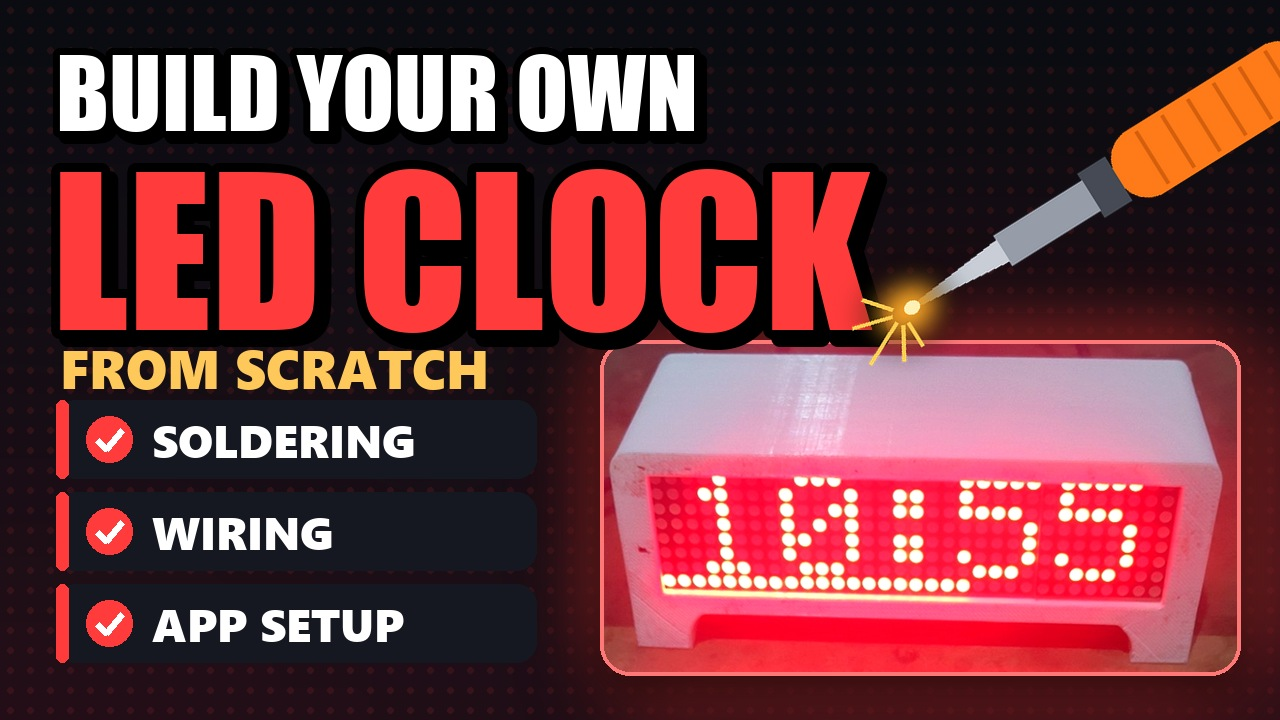
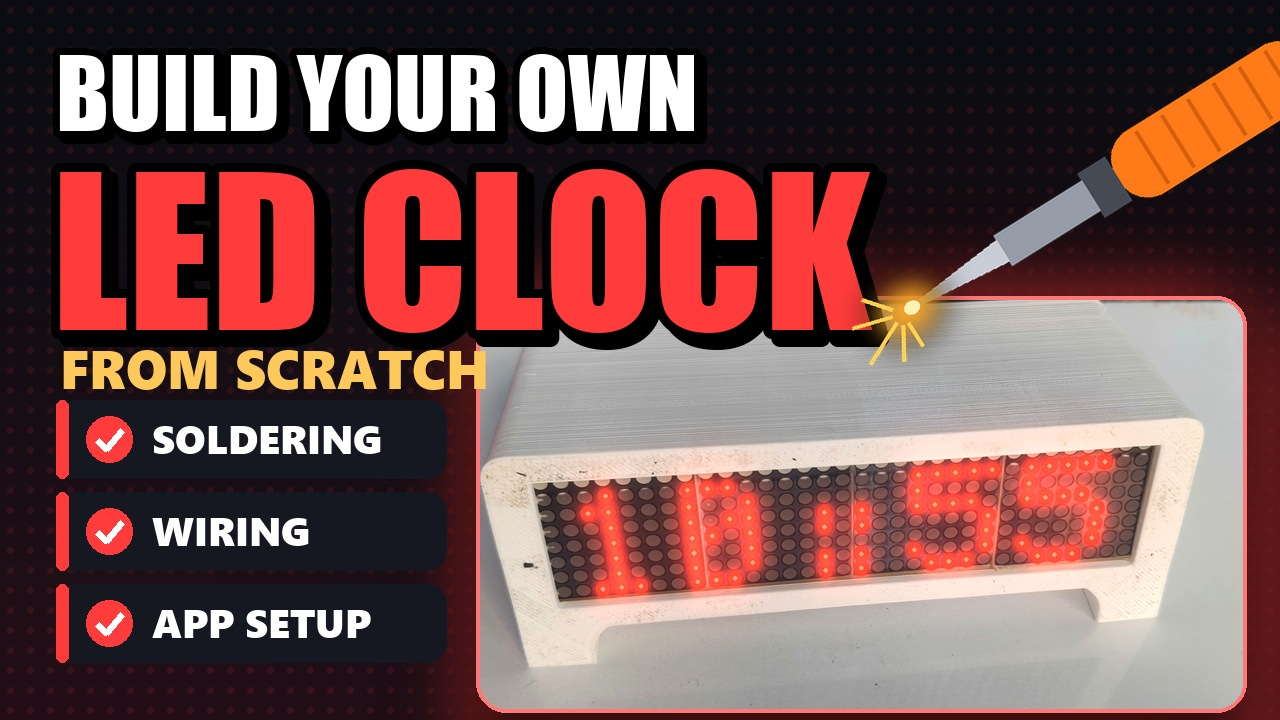
Thumbnails from daylight photos with glowing digits; light_up_clock_photo tool
Detects the LED lenses, fits each module's grid (0.2-0.6 px error) and draws
the lit digits on the photo. Daylight photos added under docs/youtube/photos.

diff --git a/tools/light_up_clock_photo.py b/tools/light_up_clock_photo.py
@@ -1,0 +1,161 @@
+"""Light up a photo of an unlit DotGlow clock: draws glowing red digits exactly on the LED dots of the photo.
+
+    python tools/light_up_clock_photo.py <photo.jpg> <out.jpg> --roi x0,y0,x1,y1 --seams x1,x2,x3 [--text 10:55]
+
+roi:    a box around the 4 display modules (a bit larger than the dots).
+seams:  x position of the 3 gaps between the 4 modules (pixels in the photo).
+The program finds the beige LED lenses, fits each 8x8 module's dot grid (perspective is handled per module),
+darkens the unlit lenses and draws the lit ones with a bloom. The top row of dots is usually half hidden by the
+case lip, so digits use rows 1-7. Needs: pip install opencv-python numpy.
+
+Example (docs/youtube/photos/clock-day-front.jpg):
+    python tools/light_up_clock_photo.py docs/youtube/photos/clock-day-front.jpg docs/youtube/photos/clock-day-lit.jpg \
+        --roi 462,362,1545,622 --seams 735,998,1245
+"""
+import argparse
+
+import cv2
+import numpy as np
+
+FONT = {  # 5x7, rows top to bottom, bit 4 = left column
+    '0': [14, 17, 19, 21, 25, 17, 14], '1': [4, 12, 4, 4, 4, 4, 14], '2': [14, 17, 1, 2, 4, 8, 31],
+    '3': [30, 1, 1, 14, 1, 1, 30], '4': [2, 6, 10, 18, 31, 2, 2], '5': [31, 16, 30, 1, 1, 17, 14],
+    '6': [6, 8, 16, 30, 17, 17, 14], '7': [31, 1, 2, 4, 8, 8, 8], '8': [14, 17, 17, 14, 17, 17, 14],
+    '9': [14, 17, 17, 15, 1, 2, 12]}
+
+
+def lit_pixels(text, top=1):
+    """Set of (col, row) lit on a 32x8 display: 4 digits (5x7) and the colon; rows start at `top`."""
+    lit = set()
+    for ch, x0 in zip([c for c in text if c.isdigit()], [1, 7, 19, 25]):
+        for r, bits in enumerate(FONT[ch]):
+            for c in range(5):
+                if bits >> (4 - c) & 1:
+                    lit.add((x0 + c, r + top))
+    for r in (2, 3, 5, 6):
+        lit.add((15, r + top))
+        lit.add((16, r + top))
+    return lit
+
+
+def detect_dots(img, roi, amin=160, amax=700):
+    """Centres of the fully visible beige LED lenses (local-contrast threshold: the frame is bright too)."""
+    x0, y0, x1, y1 = roi
+    g = cv2.GaussianBlur(cv2.cvtColor(img[y0:y1, x0:x1], cv2.COLOR_BGR2GRAY), (3, 3), 0)
+    m = cv2.adaptiveThreshold(g, 255, cv2.ADAPTIVE_THRESH_GAUSSIAN_C, cv2.THRESH_BINARY, 35, -18)
+    m = cv2.morphologyEx(m, cv2.MORPH_OPEN, np.ones((3, 3), np.uint8))
+    n, lab, st, ce = cv2.connectedComponentsWithStats(m)
+    pts = []
+    for i in range(1, n):
+        a, w, h = st[i, cv2.CC_STAT_AREA], st[i, cv2.CC_STAT_WIDTH], st[i, cv2.CC_STAT_HEIGHT]
+        if amin <= a <= amax and 0.7 < w / h < 1.5 and 12 <= w <= 34 and 12 <= h <= 34:
+            pts.append((ce[i][0] + x0, ce[i][1] + y0))
+    return np.array(pts)
+
+
+def blob_mask(img, roi, amin=60, amax=800):
+    """Mask of all beige lenses, including the half-hidden ones."""
+    x0, y0, x1, y1 = roi
+    g = cv2.GaussianBlur(cv2.cvtColor(img[y0:y1, x0:x1], cv2.COLOR_BGR2GRAY), (3, 3), 0)
+    m = cv2.adaptiveThreshold(g, 255, cv2.ADAPTIVE_THRESH_GAUSSIAN_C, cv2.THRESH_BINARY, 35, -18)
+    m = cv2.morphologyEx(m, cv2.MORPH_OPEN, np.ones((3, 3), np.uint8))
+    n, lab, st, _ = cv2.connectedComponentsWithStats(m)
+    out = np.zeros(img.shape[:2], np.uint8)
+    for i in range(1, n):
+        a, w, h = st[i, cv2.CC_STAT_AREA], st[i, cv2.CC_STAT_WIDTH], st[i, cv2.CC_STAT_HEIGHT]
+        if amin <= a <= amax and w <= 36 and h <= 36:
+            out[y0:y1, x0:x1][lab == i] = 255
+    return out
+
+
+def module_lattice(P, n=8):
+    """Index one module's dots from their own geometry (two neighbour vectors) and fit local cell -> pixel."""
+    P = np.asarray(P, np.float64)
+    d = np.linalg.norm(P[:, None] - P[None], axis=2)
+    np.fill_diagonal(d, 1e9)
+    nn = np.median(d.min(1))
+    hv, vv = [], []
+    for i in range(len(P)):
+        for j in np.where(d[i] < nn * 1.45)[0]:
+            v = P[j] - P[i]
+            if abs(v[0]) > abs(v[1]):
+                hv.append(v if v[0] > 0 else -v)
+            else:
+                vv.append(v if v[1] > 0 else -v)
+    M = np.array([np.median(hv, 0), np.median(vv, 0)]).T
+    ref = P[np.argmin(P[:, 0] + P[:, 1])]
+    ab = np.linalg.solve(M, (P - ref).T).T
+    ab -= ab.min(0)
+    idx = np.round(ab)
+    ok = (np.abs(ab - idx).max(1) < 0.3) & (idx.max(1) < n)
+    H, _ = cv2.findHomography(idx[ok].astype(np.float32), P[ok].astype(np.float32), cv2.RANSAC, 3.0)
+    pred = cv2.perspectiveTransform(idx[ok].reshape(-1, 1, 2).astype(np.float32), H).reshape(-1, 2)
+    return H, float(np.linalg.norm(pred - P[ok], axis=1).mean()), idx[ok]
+
+
+def centers(img, roi, seams, cols=32, rows=8, mod=8):
+    pts = detect_dots(img, roi)
+    edges = [-1e9] + list(seams) + [1e9]
+    cen = {}
+    for k in range(len(edges) - 1):
+        sel = pts[(pts[:, 0] >= edges[k]) & (pts[:, 0] < edges[k + 1])]
+        H, err, idx = module_lattice(sel)
+        # the lattice starts at the first visible row; the top row is hidden by the lip, so physical row = lattice row + 1
+        rows_seen = int(idx[:, 1].max()) + 1
+        shift = rows - rows_seen
+        print(f'module {k + 1}: {len(sel)} dots, mean fit error {err:.2f} px, {rows_seen} visible rows')
+        for c in range(mod):
+            for r in range(rows):
+                p = cv2.perspectiveTransform(np.float32([[[c, r - shift]]]), H)[0, 0]
+                cen[(k * mod + c, r)] = (float(p[0]), float(p[1]))
+    return cen
+
+
+def render(img, cen, lit, blobs, dot_w=20, dot_h=23, dim=0.42, glow=1.0, skip_rows=(0,)):
+    """Unlit lenses darkened, lit LEDs saturated red with a hot centre, soft bloom on the case."""
+    h, w = img.shape[:2]
+    core = np.zeros((h, w, 3), np.float32)
+    body = np.zeros((h, w, 3), np.float32)
+    litmask = np.zeros((h, w), np.uint8)
+    excl = np.zeros((h, w), np.uint8)
+    for (c, r), (x, y) in cen.items():
+        if r in skip_rows:
+            cv2.ellipse(excl, (int(round(x)), int(round(y))), (int(dot_w * .9), int(dot_h * .9)), 0, 0, 360, 255, -1)
+    for (c, r) in lit:
+        x, y = cen[(c, r)]
+        cv2.ellipse(body, (int(round(x)), int(round(y))), (dot_w // 2 + 2, dot_h // 2 + 2), 0, 0, 360, (35, 45, 255), -1, cv2.LINE_AA)
+        cv2.ellipse(core, (int(round(x)), int(round(y))), (dot_w // 5, dot_h // 5), 0, 0, 360, (150, 190, 255), -1, cv2.LINE_AA)
+        cv2.circle(litmask, (int(round(x)), int(round(y))), int(dot_w * .62), 255, -1)
+    off = cv2.dilate(blobs, np.ones((5, 5), np.uint8)).astype(np.float32) / 255.0 * (litmask == 0)
+    off[excl > 0] = 0                                                      # the half-hidden top row stays as photographed
+    out = img.astype(np.float32)
+    om = cv2.GaussianBlur(off, (0, 0), 0.9)[..., None]
+    out = out * (1 - om) + (out * dim + np.array([14, 10, 12], np.float32)) * om
+    bm = cv2.GaussianBlur((body.max(2) > 0).astype(np.float32), (0, 0), 0.8)[..., None]
+    out = out * (1 - bm) + body * bm
+    out += (cv2.GaussianBlur(body, (0, 0), 6) * .8 + cv2.GaussianBlur(body, (0, 0), 20) * 1.1
+            + cv2.GaussianBlur(body, (0, 0), 55) * .8) * glow
+    cm = cv2.GaussianBlur((core.max(2) > 0).astype(np.float32), (0, 0), 1.4)[..., None] * .85
+    out = out * (1 - cm) + core * cm
+    return np.clip(out, 0, 255).astype(np.uint8)
+
+
+def main():
+    ap = argparse.ArgumentParser(description=__doc__, formatter_class=argparse.RawDescriptionHelpFormatter)
+    ap.add_argument('photo')
+    ap.add_argument('out')
+    ap.add_argument('--roi', required=True)
+    ap.add_argument('--seams', required=True)
+    ap.add_argument('--text', default='10:55')
+    a = ap.parse_args()
+    img = cv2.imread(a.photo)
+    roi = tuple(int(v) for v in a.roi.split(','))
+    seams = [int(v) for v in a.seams.split(',')]
+    cen = centers(img, roi, seams)
+    out = render(img, cen, lit_pixels(a.text), blob_mask(img, roi))
+    cv2.imwrite(a.out, out, [cv2.IMWRITE_JPEG_QUALITY, 95])
+    print('written', a.out)
+
+
+if __name__ == '__main__':
+    main()

diff --git a/tools/make_thumbnails.py b/tools/make_thumbnails.py
@@ -2,7 +2,7 @@
 
     python tools/make_thumbnails.py <clock-photo.jpg> <app-screenshot.png> [out-dir]
 
-clock-photo: the lit clock (colon visible), crop box below is for the 1125x2000 photo in docs/youtube/photos/.
+clock-photo: docs/youtube/photos/clock-day-lit.jpg (made by tools/light_up_clock_photo.py from a daylight photo).
 app-screenshot: a plain 1080x2400 app screenshot (docs/play-store/raw/); it is put into a drawn phone frame.
 """
 import math
@@ -20,6 +20,8 @@ IMPACT = FONTS + "impact.ttf"
 BLACK = FONTS + "seguibl.ttf"
 BOLD = FONTS + "segoeuib.ttf"
 
+# crop of the daylight photo with lit digits (docs/youtube/photos/clock-day-lit.jpg, 2000x906): the whole case
+CASE_CROP = (372, 104, 1648, 793)
 HERE = os.path.dirname(os.path.abspath(__file__))
 ICON = os.path.join(HERE, "..", "docs", "play-store", "icon-512.png")
 
@@ -105,7 +107,7 @@ def check_row(canvas, x, y, label, w=520):
     d.rounded_rectangle([x, y, x + 12, y + 78], 6, fill=RED)
     d.ellipse([x + 30, y + 16, x + 76, y + 62], fill=RED)
     d.line([(x + 41, y + 40), (x + 50, y + 49), (x + 66, y + 30)], fill=WHITE, width=7, joint="curve")
-    d.text((x + 96, y + 8), label, font=font(BLACK, 46), fill=WHITE)
+    d.text((x + 96, y + 10), label, font=font(BLACK, 40), fill=WHITE)
 
 
 def soldering_iron(canvas, cx, cy, scale=1.0, angle=-35):
@@ -158,8 +160,8 @@ def crop_fit(im, box, size):
 def build_thumb(clock, out):
     c = background()
     # clock photo, bottom right
-    photo = punch(crop_fit(clock, (205, 300, 1055, 745), (640, 335)))
-    box = (600, 340, 1240, 675)
+    photo = punch(crop_fit(clock, CASE_CROP, (770, 416)), contrast=1.04, color=1.05)
+    box = (476, 296, 1246, 712)
     glow_behind(c, box, RED, blur=46, grow=22, alpha=230)
     shadow(c, box)
     c.alpha_composite(rounded(photo, 30), (box[0], box[1]))
@@ -170,7 +172,7 @@ def build_thumb(clock, out):
     text(c, (60, 330), "FROM SCRATCH", font(BLACK, 54), (255, 200, 90))
     # steps
     for i, label in enumerate(["SOLDERING", "WIRING", "APP SETUP"]):
-        check_row(c, 56, 400 + i * 92, label, w=480)
+        check_row(c, 56, 400 + i * 92, label, w=390)
     soldering_iron(c, 1085, 200, scale=0.8, angle=212)   # tip points down-left, at the clock
     c.convert("RGB").save(out, quality=93, optimize=True)
 
@@ -213,8 +215,8 @@ def demo_thumb(clock, shot, out):
     layer.paste(tilt, pos, tilt)
     c.alpha_composite(layer)
     # clock photo, bottom left
-    photo = punch(crop_fit(clock, (205, 300, 1055, 745), (590, 309)))
-    box = (46, 392, 636, 701)
+    photo = punch(crop_fit(clock, CASE_CROP, (600, 324)), contrast=1.04, color=1.05)
+    box = (46, 382, 646, 706)
     glow_behind(c, box, RED, blur=44, grow=20, alpha=225)
     shadow(c, box)
     c.alpha_composite(rounded(photo, 30), (box[0], box[1]))
